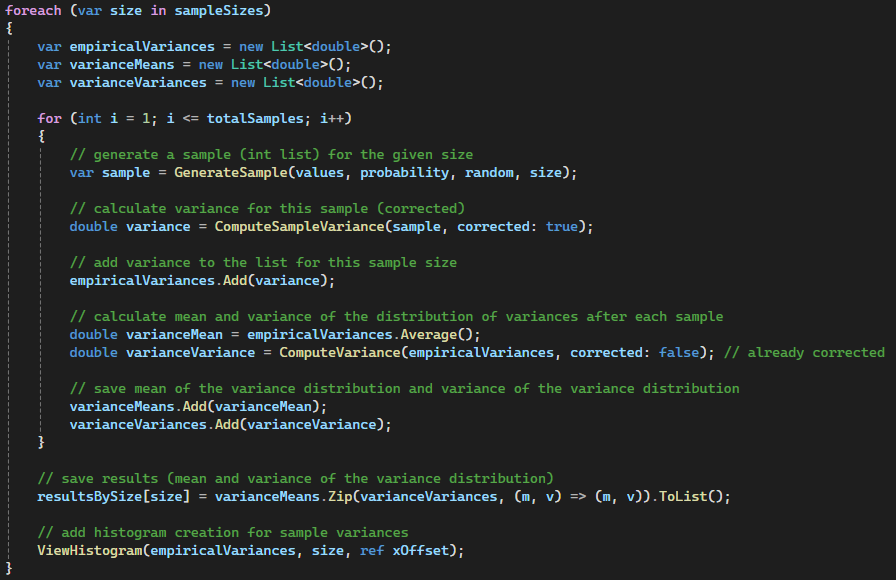
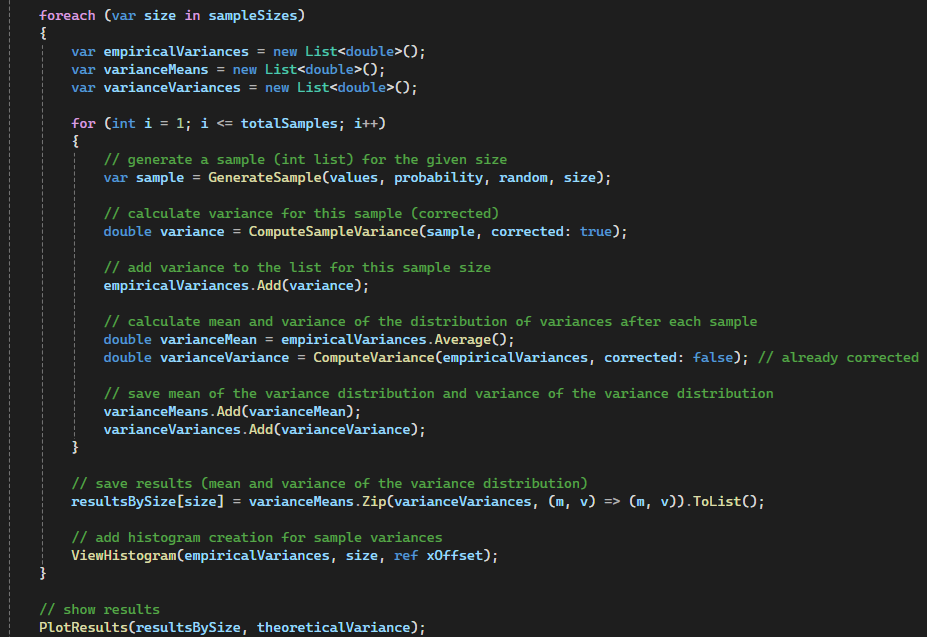
mod

Changed region(s): [[0.0, 0.2483, 1.0, 1.0], [0.0, 0.0, 0.4688, 0.1552], [0.0312, 0.1862, 0.4062, 0.2483]]

diff --git a/homework9.html b/homework9.html
@@ -296,14 +296,19 @@
         <p>
             Taking the basis of homework 7, the mean and variance of the empirical variances were
             calculated for the 1000 samples of 20, 30 and 100 throws of the same rigged die. Two lines graphs are
-            generated
-            showing these means and variances values of the 1000 samples for the three sizes, letting us see how the
+            generated showing these values and their behaviour, letting us see how the
             distributions change increasing the sample size. The frequency
             distribution of empirical variance were also generated for the 3 sizes of 20, 30 and
             100 throws of the rigged die.
+        </p>
+
+        <p>Let's see the code and the generated plots:
             <img src="images/HW9/SimulateEmpiricalDistribution.png" alt="Empirical Distribution" />
             <br>
-            This code generates the following graphs:
+            The ‘Simulate’ button triggers the same function of Hmw7, where what has changed is shown in the code: we
+            generate 1000 samples of sizes 20, 30 and 100 and for each of these we computed the empirical corrected
+            variance and we add it to the <code>empiricalVariances</code> list. Then we compute the means and variances
+            of the increasing list of empirical variances and we plot in the two convergence graphs shown below.
             <br>
             <br>
             <img src="images/HW9/simulation1.png" alt="Simulation" />
